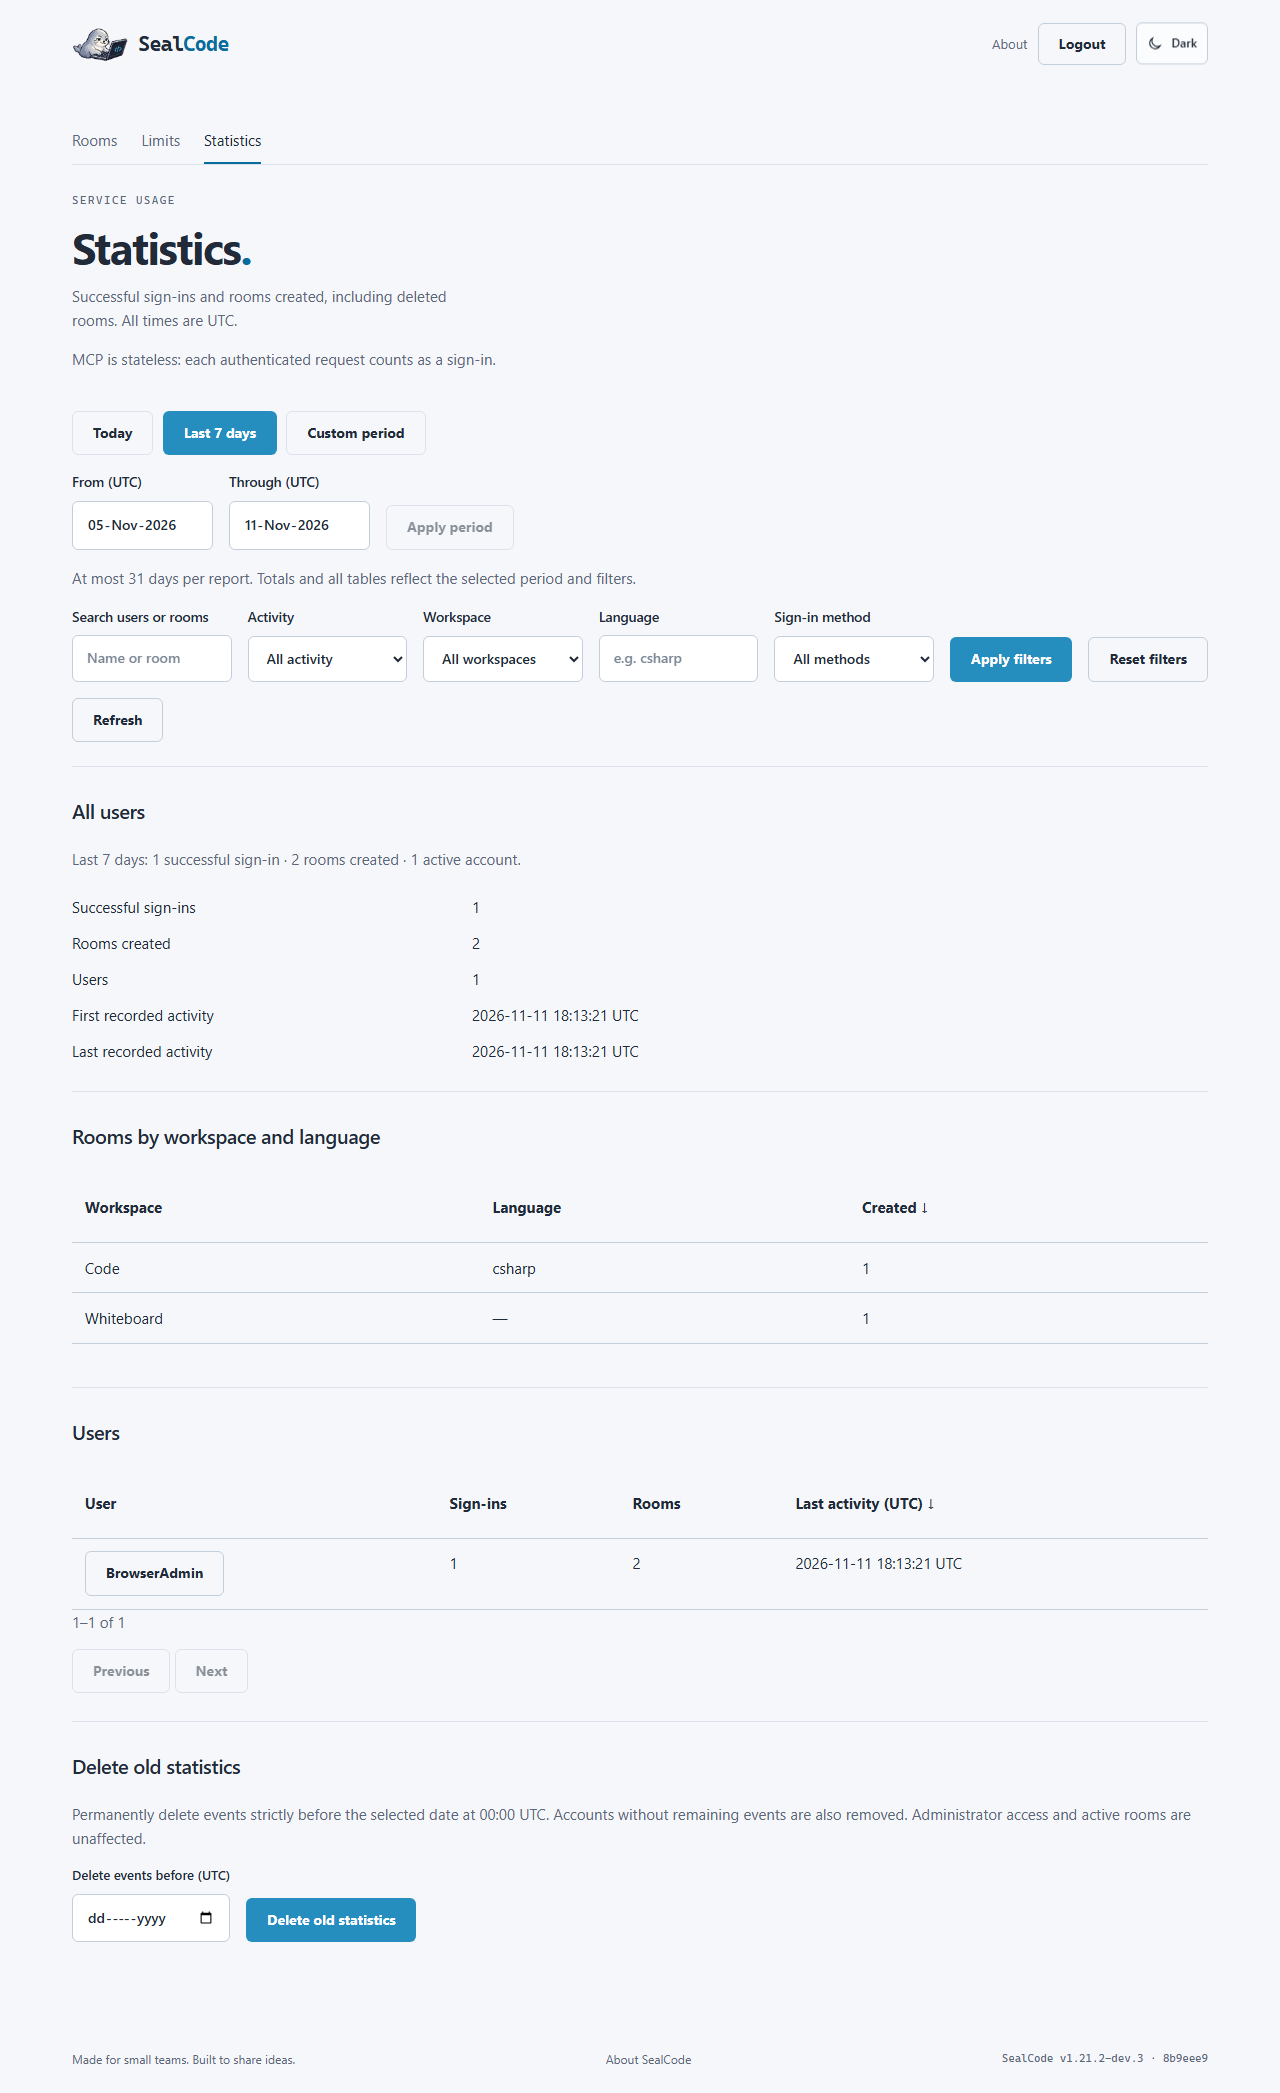
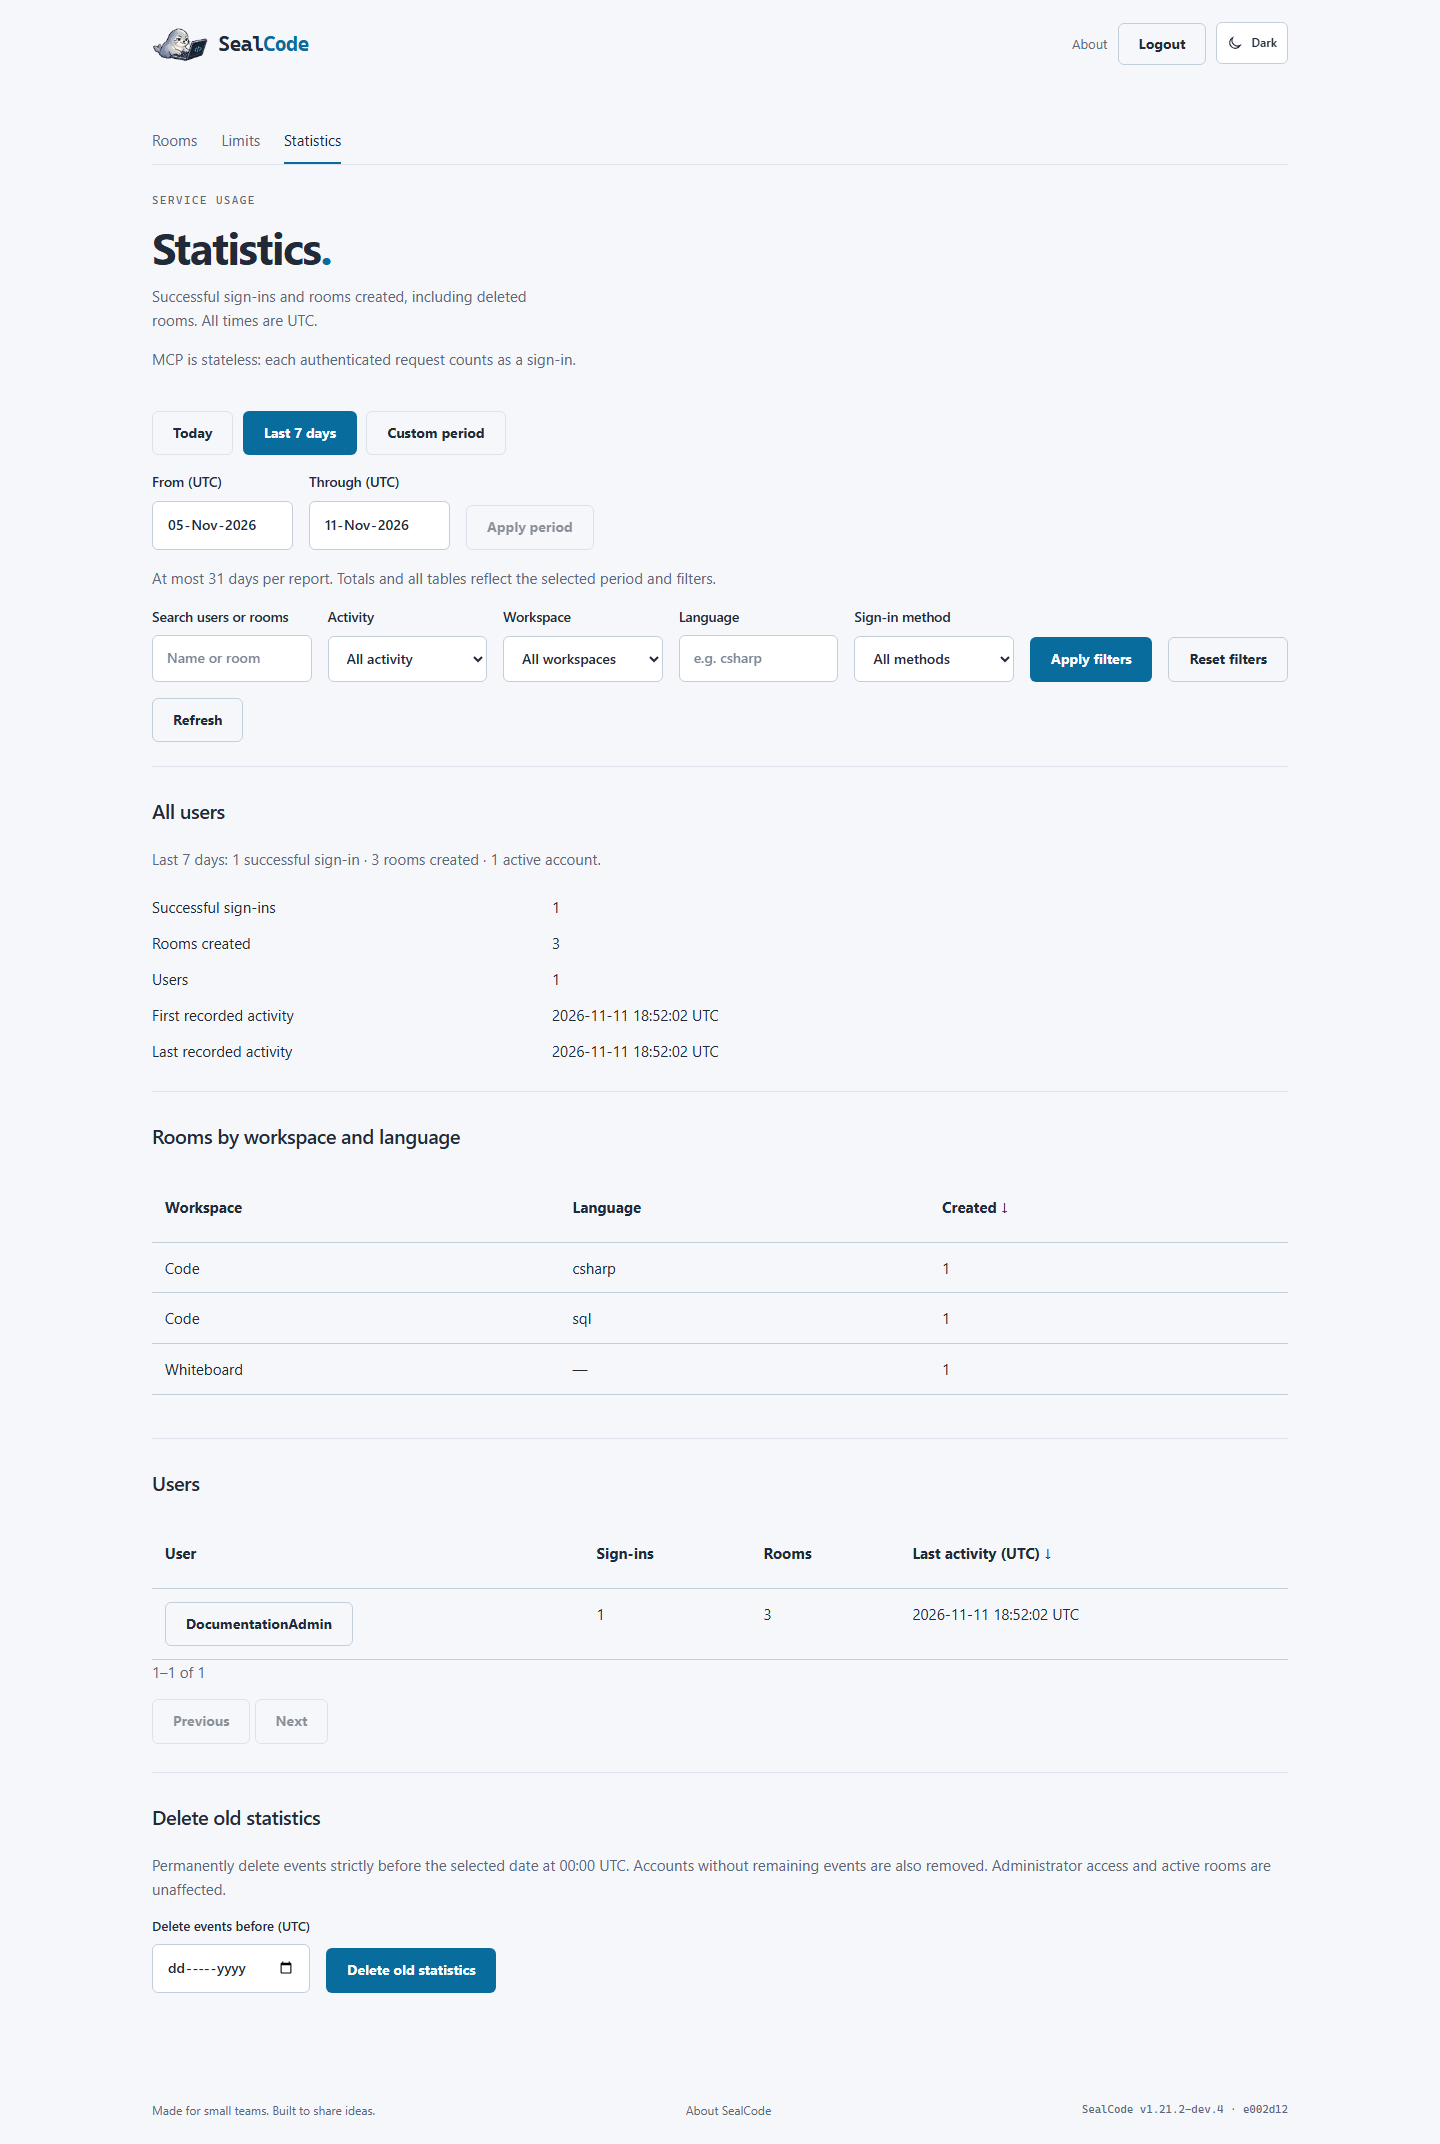
docs: complete statistics guide and refresh screenshots

diff --git a/README.md b/README.md
@@ -622,7 +622,8 @@ under organization policy.
 
 ## Admin MCP
 
-The same server exposes admin room management at `/mcp` over Streamable HTTP
+The same server exposes admin room management and bounded usage statistics at
+`/mcp` over Streamable HTTP
 using the [official MCP C# SDK](https://csharp.sdk.modelcontextprotocol.io/v2/concepts/transports/transports.html).
 Configure a separate `McpToken` next to `PasswordHash` in each `AdminUsers` record:
 
@@ -664,6 +665,7 @@ server-side MCP sessions. Cross-origin browser requests are rejected; configure
 | `list_languages` | Allowed languages for room creation |
 | `create_room` | Create a room with `name` and optional `language` (default `csharp`); return its ID and complete invitation URL |
 | `delete_room` | Delete `roomId` and notify connected participants |
+| `get_usage_statistics` | Super admins only: filtered usage totals and a bounded page of users/events; at most 31 days and 100 rows. See [limits and examples](#bounded-statistics-api-and-mcp). |
 
 Use `invitationUrl` as the ready-to-share room link, for example
 `https://seal-code.com/room/<id>`. It uses the MCP request's scheme, host, port
@@ -703,6 +705,10 @@ The expandable **Technical limits** section shows synchronization and request bu
 This page is read-only and available to every signed-in administrator. Values come
 from the server; changing configuration requires restarting the application.
 
+When statistics are configured, super admins can also open **Statistics** for
+[Today/week reports, filters, sortable tables, user history and retention](#administrator-usage-statistics).
+The link is hidden for ordinary admins and when statistics are disabled.
+
 ## Join a Room
 
 Open an invitation directly, or paste a room link from the same SealCode instance
@@ -733,6 +739,7 @@ away to leave. No participant account or installation is required.
 - `Languages`: list of language identifiers supported by Monaco Editor (example: `csharp`, `sql`).
 - `MaxUsersPerRoom`: integer from 1 to 5.
 - `CollaborativeUndoEnabled`: optional feature flag; defaults to `true`.
+- `ConnectionStrings:Statistics`: optional dedicated PostgreSQL connection for usage statistics. Omit/empty disables statistics while sign-in and rooms continue to work. It never falls back to `ConnectionStrings:Snippets`; see [setup and access](#administrator-usage-statistics).
 
 The checked-in `appsettings.json` contains empty `PasswordHash` placeholders. Before starting the app, generate a hash for each admin with `dotnet run --project tools/password-hash` and set its `PasswordHash` locally or through environment variables (for example, `AdminUsers__0__PasswordHash`). Paste the generated hash, not the plain-text password. Empty hashes fail configuration validation. Do not commit your credentials.
 
@@ -915,8 +922,8 @@ Unlisted proxies cannot supply trusted forwarded headers. The browser WebSocket 
 ### Deployment and trust boundaries
 
 The application supports **one process only**. Optional PostgreSQL storage persists
-the snippet library only; it adds no multi-instance coordination or durable room
-storage. Room data disappears when the process stops, even if Data Protection keys are persisted.
+the snippet library and administrator usage statistics through independent connection
+strings; it adds no multi-instance coordination or durable room storage. Room data disappears when the process stops, even if Data Protection keys are persisted.
 
 Anyone knowing a room link is a trusted participant under [ADR 0003](docs/adr/0003-crdt-recovery-lifecycle.md). The server validates membership, revisions, encoding and resource limits, but does not interpret Yjs updates to verify their document semantics.
 
@@ -1142,8 +1149,8 @@ are stored, the Statistics navigation link is hidden, and its page/read/delete
 endpoints return 404 to super admins.
 
 When a nonempty `ConnectionStrings:Statistics` is configured, successful password
-and Google sign-ins are written to PostgreSQL before a session is issued. An account row is created automatically on first activity and
-its display name is refreshed on subsequent activity. Configured account names
+and Google sign-ins are written to PostgreSQL before a session is issued. An
+account row is created automatically on first activity and its display name is refreshed on subsequent activity. Configured account names
 are case-insensitive; Google subject identifiers remain case-sensitive.
 Stateless MCP has no sign-in session: each successful bearer authentication is
 recorded with provider `mcp` and is visible separately in the user's history.
@@ -1153,8 +1160,8 @@ Room creation from the admin panel and MCP records the creator, timestamp, room
 ID, full room name, workspace (`code` or `whiteboard`) and initial language
 (for example `csharp`). Content, passwords, credential hashes, bearer tokens and
 Google ID tokens are never stored in statistics. History survives room deletion
-and application restarts. When statistics are enabled but an activity cannot be persisted, a new session is
-not issued and a newly created room is removed; recording errors must be fixed
+and application restarts. When statistics are enabled but an activity cannot be
+persisted, a new session is not issued and a newly created room is removed; recording errors must be fixed
 before those operations can succeed.
 
 To enable statistics:
@@ -1206,8 +1213,8 @@ with `CREATE DATABASE` permission.
 
 ### Statistics screenshots
 
-These captures use disposable browser-test accounts and sample C# rooms and
-whiteboards. They contain no deployment accounts or credentials.
+These captures use disposable browser-test accounts and sample C#, SQL and
+whiteboard rooms. They contain no deployment accounts or credentials.
 
 | Overview, dark theme | Overview, light theme |
 | --- | --- |
@@ -1216,6 +1223,15 @@ whiteboards. They contain no deployment accounts or credentials.
 | User history, dark theme | User history, light theme |
 | --- | --- |
 | ![User sign-ins and code and whiteboard room creation history in dark theme](docs/images/statistics-user-dark.png) | ![User sign-ins and room creation history in light theme](docs/images/statistics-user-light.png) |
+
+| Today report, dark theme | Active filters and sorting, light theme |
+| --- | --- |
+| ![Today tab with its UTC date range and short usage report](docs/images/statistics-today-dark.png) | ![User activity filtered to code room creation and practice room names, sorted by room name](docs/images/statistics-filtered-sorted-light.png) |
+
+The Today capture shows a single UTC date; the overview above shows the last
+seven days. The filtered capture shows the selected activity/workspace filters,
+literal room search, and the ascending arrow on the Room column. The counters
+change with those filters. Refresh is separated from the summary divider.
 
 <details>
 <summary>Mobile views (375 pixels wide)</summary>
@@ -1232,11 +1248,13 @@ The activity table scrolls horizontally to keep dates and room metadata readable
 
 | Level | Scenarios |
 | --- | --- |
+| [Query unit tests](src/Models.Tests/UsageStatisticsQuery.Tests.cs) | UTC normalization, default seven-day period, the 31-day boundary, page/offset limits, allowed sort keys and bounded filters. |
 | [Server unit tests](src/SealCode.Tests/UsageStatistics.Tests.cs) | Independent connection strings without fallback, disabled accounting when configuration is absent/empty, both room kinds, successful recording and rollback on persistence failure or cancellation. |
-| [Client unit tests](tests/client/admin-statistics.test.js) | Totals and empty states, account selection, user and event pagination, stale responses, HTTP/network errors, refresh, safe text rendering, confirmation/cancellation, duplicate-submit protection, UTC cutoff and CSRF. |
-| [PostgreSQL integration tests](src/Persistence.Tests/PostgreSqlUsageStatisticsRepository.Tests.cs) | Repeatable migration, concurrent account upserts, local/Google identity semantics, durable metadata, user and event pages with stable ordering, parameterized filters, atomic rollback, cancellation, exclusive cutoff, orphan cleanup, account recreation and concurrent retention. |
-| [HTTP integration tests](src/SealCode.Tests/SealCodeApi.Tests.cs) | Operation without database configuration (sign-in, both room kinds, file snippets and disabled reports), guest/ordinary/super-admin access, account-specific queries, no-store responses, CSRF, invalid cutoff/offset rejection, successful and failed sign-ins and room recording. Google and MCP tests also verify provider accounting. |
-| [Browser tests](tests/e2e/admin-statistics.spec.js) | Overview and user history, code and whiteboard metadata, real history pagination, XSS-safe room names, guest/ordinary-admin denial, canceled and confirmed retention, dark/light themes and desktop/mobile layouts. Actual deletion of old events and the strict UTC boundary are checked against PostgreSQL. |
+| [Client unit tests](tests/client/admin-statistics.test.js) | Today/week/custom periods and date validation, server filter forwarding/reset, independent table sorting and direction, totals/empty states, user/event pagination, stale responses, error recovery, safe text rendering, retention confirmation/cancellation, duplicate-submit protection, UTC cutoff and CSRF. |
+| [PostgreSQL integration tests](src/Persistence.Tests/PostgreSqlUsageStatisticsRepository.Tests.cs) | Repeatable migration, concurrent account upserts, local/Google identity semantics, durable metadata, UTC report boundaries, filters/sorting before pagination, user/event pages with stable ordering, invalid-query rejection before connecting, atomic rollback, cancellation, exclusive cutoff, orphan cleanup, account recreation and concurrent retention. |
+| [HTTP integration tests](src/SealCode.Tests/SealCodeApi.Tests.cs) | Operation without database configuration (sign-in, both room kinds, file snippets and disabled reports), guest/ordinary/super-admin access, account-specific queries, no-store responses, CSRF, invalid period/page/filter/sort/cutoff rejection, successful and failed sign-ins and room recording. Google tests also verify provider accounting. |
+| [MCP integration tests](src/SealCode.Tests/AdminMcp.Tests.cs) | Real MCP transport, super-admin access, disabled statistics, bounded period/page/offset/sort validation before reading, filter forwarding and compatibility with older protocol clients. |
+| [Browser tests](tests/e2e/admin-statistics.spec.js) | Today/week reports, custom-period validation, server filters/sorting, Refresh spacing, overview/user history, workspace metadata, real pagination, XSS-safe room names, guest/ordinary-admin denial, canceled/confirmed retention, dark/light themes and desktop/mobile layouts. Actual deletion of old events and the strict UTC boundary are checked against PostgreSQL. |
 
 Run the focused checks (database environment variables must point to a disposable
 server/database prepared as described above):
@@ -1244,10 +1262,11 @@ server/database prepared as described above):
 ```bash
 npm run typecheck
 npm run test:client
-dotnet test src/SealCode.Tests --filter 'FullyQualifiedName~UsageStatisticsTests|FullyQualifiedName~StatisticsRequire|FullyQualifiedName~SuccessfulLogins|FullyQualifiedName~GoogleSignInTests|FullyQualifiedName~AdminMcpTests'
+dotnet test src/Models.Tests --filter FullyQualifiedName~UsageStatisticsQuery
+dotnet test src/SealCode.Tests --filter 'FullyQualifiedName~Statistics|FullyQualifiedName~WithoutDatabaseConfiguration|FullyQualifiedName~SuccessfulLogins|FullyQualifiedName~GoogleSignInTests|FullyQualifiedName~AdminMcpTests'
 dotnet test src/Persistence.Tests --filter FullyQualifiedName~PostgreSqlUsageStatistics
 npm run build:client
-npx playwright test tests/e2e/admin-statistics.spec.js
+npx playwright test tests/e2e/admin-statistics.spec.js tests/e2e/without-database.spec.js
 ```
 
 
@@ -1262,8 +1281,8 @@ instruction to silently disable accounting.
 
 ### Bounded statistics API and MCP
 
-The read-only MCP tool `get_usage_statistics` is available only to a configured
-super administrator token. Ordinary admins are rejected even if they know the
+The read-only MCP tool `get_usage_statistics` uses the [Admin MCP](#admin-mcp)
+endpoint and is available only to a configured super administrator token. Ordinary admins are rejected even if they know the
 tool name; unconfigured statistics return an explicit disabled error. The tool
 uses the same validated query as `GET /admin/statistics/data`:
 
@@ -1299,3 +1318,23 @@ Event sort keys: `time`, `type`, `provider`, `room`, `kind`, `language`.
 `descending` controls direction. HTTP also accepts `breakdownSortBy`
 (`count`/`kind`/`language`) and `breakdownDescending` for independent breakdown
 sorting. All timestamp boundaries and displayed times use UTC.
+
+
+For account-specific room history, pass an exact `Id` from `Users` (the value
+below is a sample configured-account identifier):
+
+```json
+{
+  "from": "2026-11-01T00:00:00Z",
+  "to": "2026-11-08T00:00:00Z",
+  "userId": "ADMIN",
+  "eventType": "room",
+  "kind": "code",
+  "language": "csharp",
+  "search": "interview",
+  "sortBy": "time",
+  "descending": true,
+  "limit": 50,
+  "offset": 0
+}
+```
